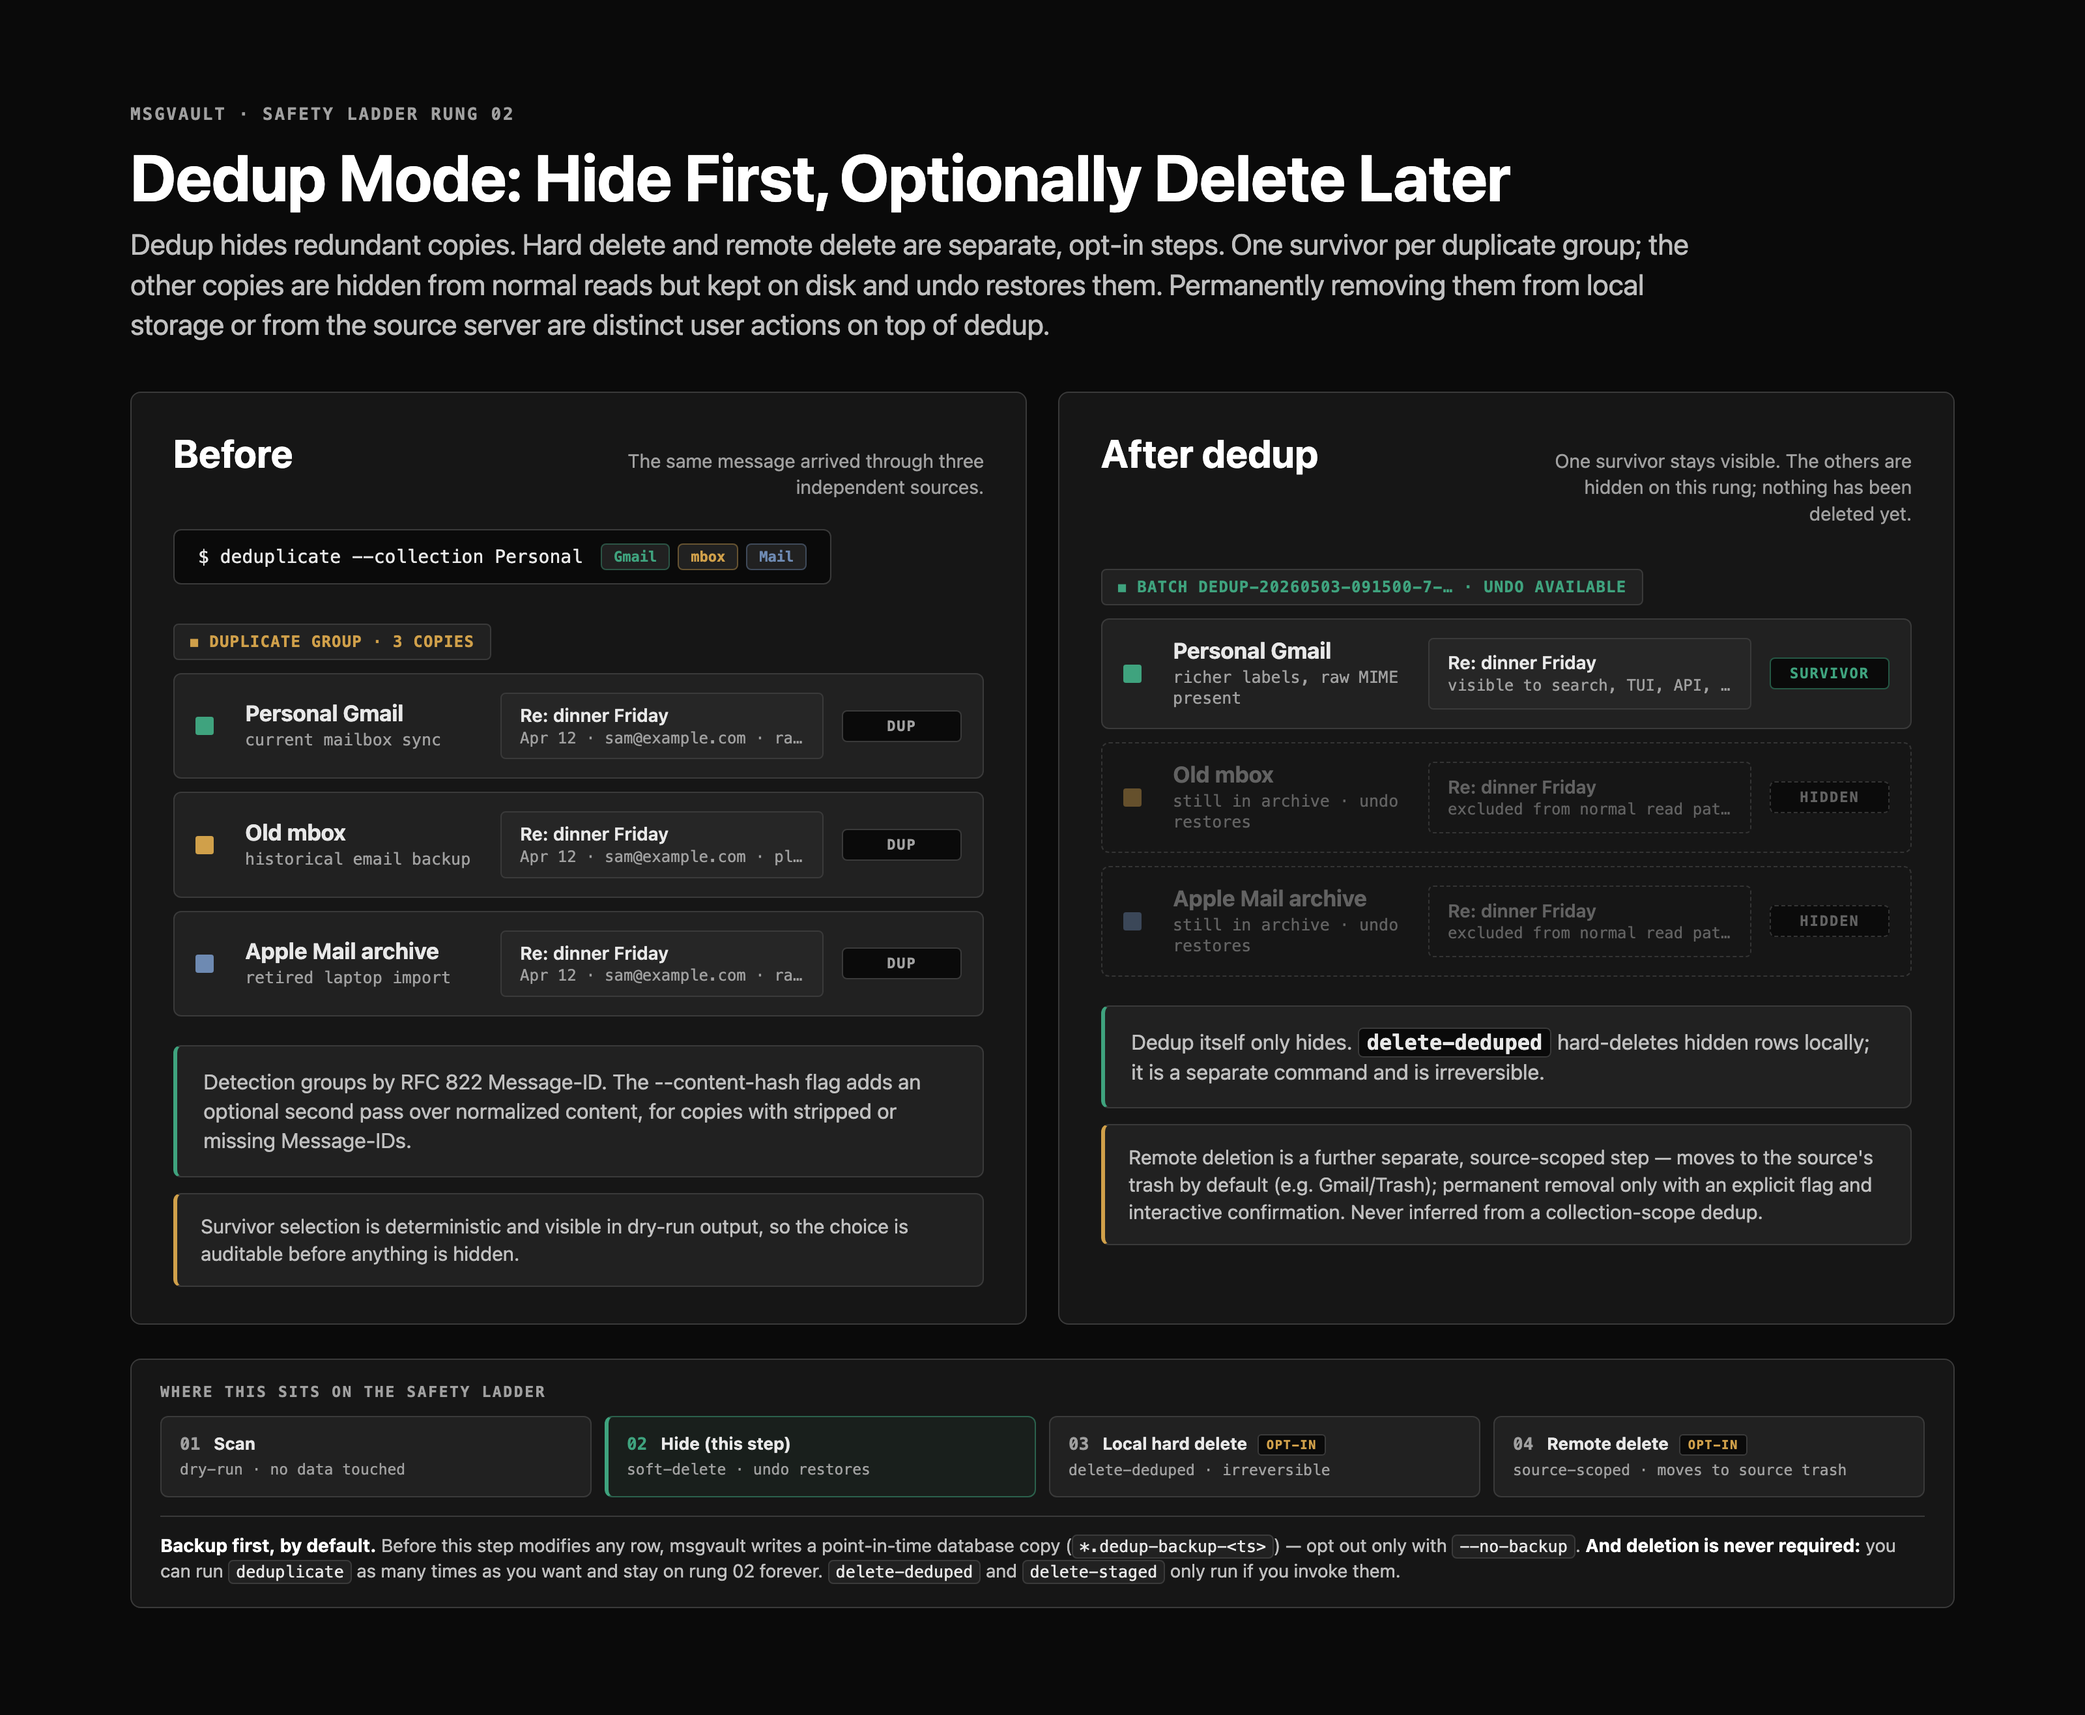
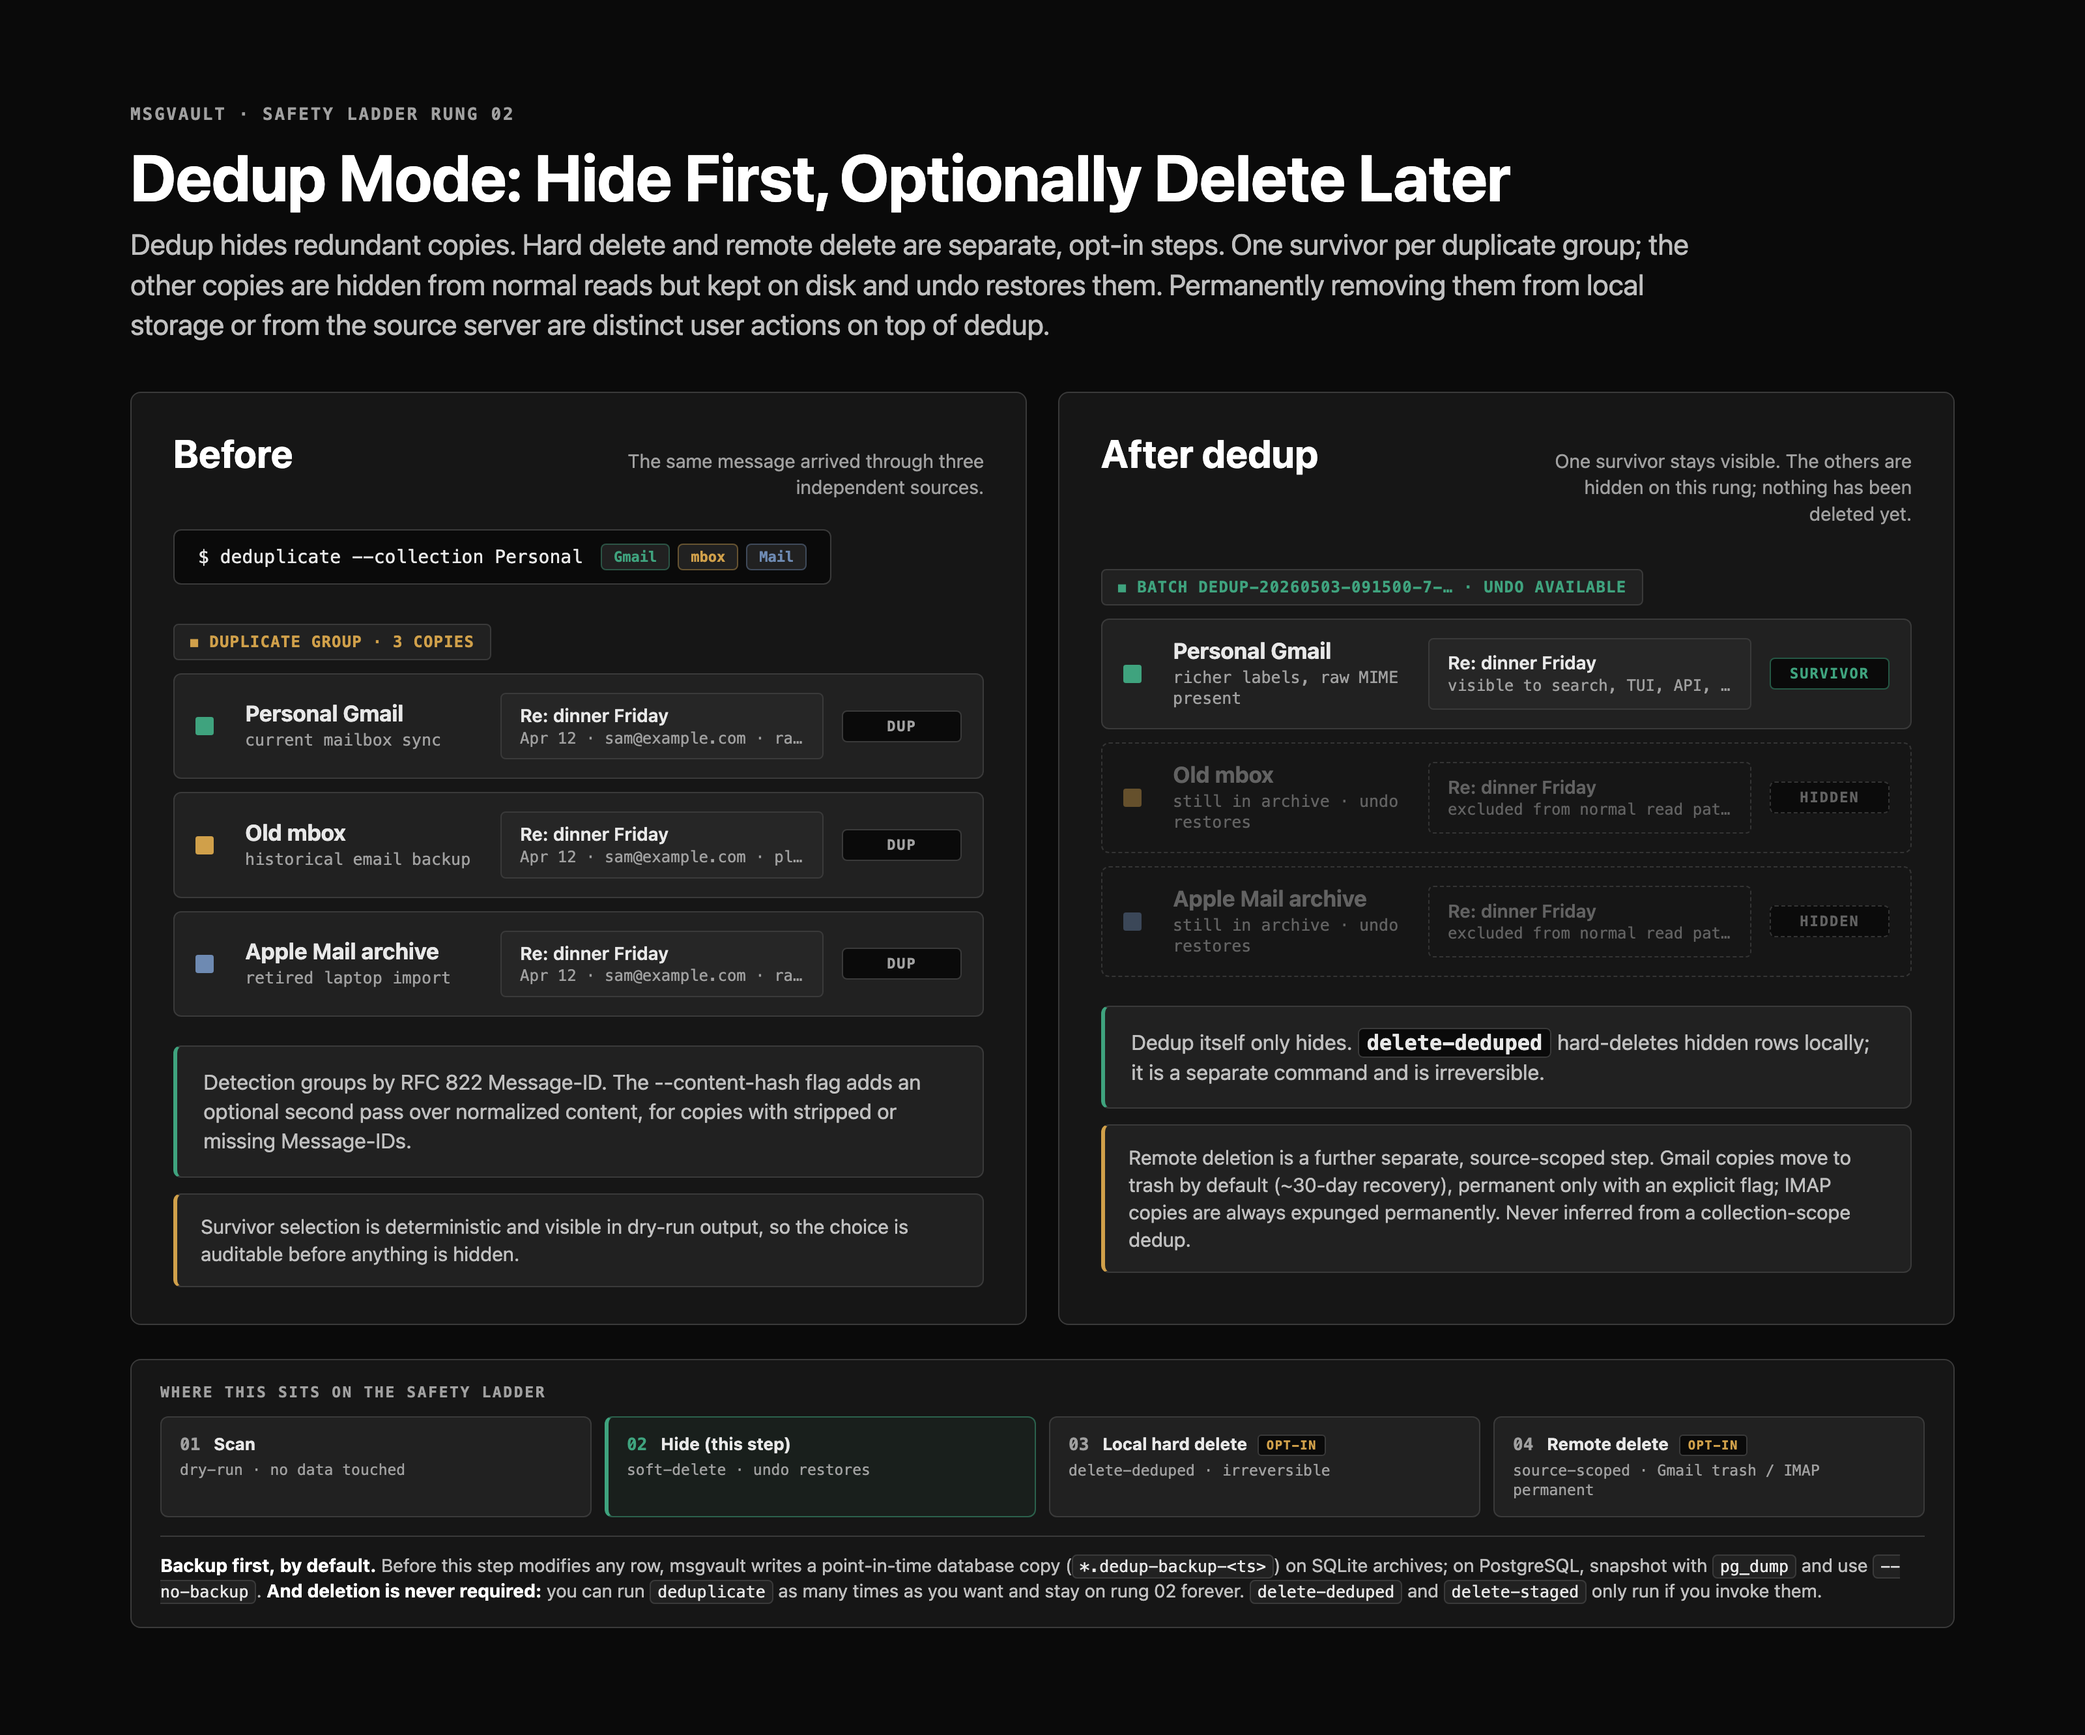
fix: scope remote-delete trash to Gmail (IMAP is permanent) and mark backup SQLite-only
The safety-ladder and dedup diagrams generalized remote deletion as trash-by-
default, but only Gmail trashes; IMAP always expunges permanently (UID STORE
\Deleted + UID EXPUNGE), so an IMAP user could wrongly assume 30-day recovery.
Also note rung-00 backup is SQLite-only (PostgreSQL: pg_dump + --no-backup) in
the diagrams, the ladder table, and the alt text. From PR #31 review iter 3
(codex High + Medium, claude-code Low).

diff --git a/diagrams/deduplication-concept.html b/diagrams/deduplication-concept.html
@@ -558,7 +558,7 @@
         </div>
 
         <div class="footer-rule">Dedup itself only hides. <strong>delete-deduped</strong> hard-deletes hidden rows locally; it is a separate command and is irreversible.</div>
-        <div class="identity-rule">Remote deletion is a further separate, source-scoped step — moves to the source's trash by default (e.g. Gmail/Trash); permanent removal only with an explicit flag and interactive confirmation. Never inferred from a collection-scope dedup.</div>
+        <div class="identity-rule">Remote deletion is a further separate, source-scoped step. Gmail copies move to trash by default (~30-day recovery), permanent only with an explicit flag; IMAP copies are always expunged permanently. Never inferred from a collection-scope dedup.</div>
       </div>
     </section>
 
@@ -579,10 +579,10 @@
         </div>
         <div class="rung-mini">
           <div><span class="rung-mini-num">04</span><span class="rung-mini-name">Remote delete</span><span class="opt-in-tag">opt-in</span></div>
-          <div class="rung-mini-hint">source-scoped · moves to source trash</div>
+          <div class="rung-mini-hint">source-scoped · Gmail trash / IMAP permanent</div>
         </div>
       </div>
-      <div class="ladder-strip-note"><strong>Backup first, by default.</strong> Before this step modifies any row, msgvault writes a point-in-time database copy (<code>*.dedup-backup-&lt;ts&gt;</code>) — opt out only with <code>--no-backup</code>. <strong>And deletion is never required:</strong> you can run <code>deduplicate</code> as many times as you want and stay on rung 02 forever. <code>delete-deduped</code> and <code>delete-staged</code> only run if you invoke them.</div>
+      <div class="ladder-strip-note"><strong>Backup first, by default.</strong> Before this step modifies any row, msgvault writes a point-in-time database copy (<code>*.dedup-backup-&lt;ts&gt;</code>) on SQLite archives; on PostgreSQL, snapshot with <code>pg_dump</code> and use <code>--no-backup</code>. <strong>And deletion is never required:</strong> you can run <code>deduplicate</code> as many times as you want and stay on rung 02 forever. <code>delete-deduped</code> and <code>delete-staged</code> only run if you invoke them.</div>
     </div>
   </main>
 </body>

diff --git a/diagrams/safety-ladder-concept.html b/diagrams/safety-ladder-concept.html
@@ -429,7 +429,7 @@
       <span class="rung-zero-num">00</span>
       <div class="rung-zero-body">
         <div class="rung-zero-name">Backup (Rung 00, automatic and default-on)</div>
-        <div class="rung-zero-desc">Before <code>deduplicate</code> or <code>delete-deduped</code> changes a single row, msgvault writes a point-in-time copy of your database alongside it (e.g. <code>msgvault.db.dedup-backup-20260503-083100</code>). Opt out only with <code>--no-backup</code>.</div>
+        <div class="rung-zero-desc">Before <code>deduplicate</code> or <code>delete-deduped</code> changes a single row, msgvault writes a point-in-time copy of your database alongside it (e.g. <code>msgvault.db.dedup-backup-20260503-083100</code>). SQLite archives only; on PostgreSQL, snapshot with <code>pg_dump</code> first, then <code>--no-backup</code>. Opt out with <code>--no-backup</code>.</div>
       </div>
       <span class="rung-zero-cmd">--no-backup to skip</span>
     </div>
@@ -493,7 +493,7 @@
         <div class="rung-summary">Execute staged deletions against the source server (Gmail, IMAP, …). <code>delete-staged</code> runs any staged manifest, not just dedup.</div>
         <ul class="rung-list">
           <li>Same-source filter is set at staging, by <code>--delete-dups-from-source-server</code></li>
-          <li>Trash by default (Gmail/Trash, ~30-day recovery); <code>--permanent</code> to purge</li>
+          <li>Gmail: trash by default (~30-day recovery), <code>--permanent</code> to purge. IMAP: always permanent (expunge)</li>
           <li>Cross-source groups stage nothing; each server's original stays put</li>
         </ul>
         <div class="rung-foot"><span class="badge">leaves the local archive</span></div>
